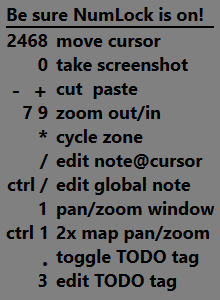
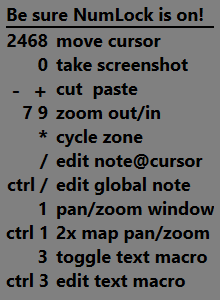
hashtag autocompletion text macro key/behavior/docs

Changed region(s): [[0.4091, 0.81, 0.9545, 0.99], [0.0273, 0.81, 0.2182, 0.96]]

diff --git a/doc/main.md b/doc/main.md
@@ -142,6 +142,16 @@ You can also create clickable **hyperlinks** to jump to other cells by typing e.
 in formats like "(45,55)" or "(zone02,51,52)" which can be useful for marking up fast
 travel systems in a game, or doors that lead to different dungeon maps, or whatnot.
 
+There is one text macro which you can edit using `(NumPad) Ctrl-3`.  Pressing `NumPad3` will toggle the 
+text macro at the end of the Note in the current cell; that is, append the text to the end of the Note,
+unless that text already exists at the end, in which case, remove it.  Here's an example scenario where 
+this is useful: You just got a powerup in your game that allows you to break blue walls. Now you want to 
+review the map and mark all the places with blue walls you want to return to, to explore for treasure and 
+secrets behind the blue walls.  Edit the text macro (`(NumPad) Ctrl-3`) to be "#blueWall", then cursor 
+around the map to all the screens with blue walls and press `Numpad3` to append #blueWall to the Note for 
+that screen.  Click on #blueWall in the bottom-right pane of the app to highlight all the cells with that
+hashtag, and now you can easily see an overview of all the places you need to revisit with your new powerup.
+
 There is also a 'global note', that is, a note which is not associated with any particular
 map cell.  You can edit the global note with
 
